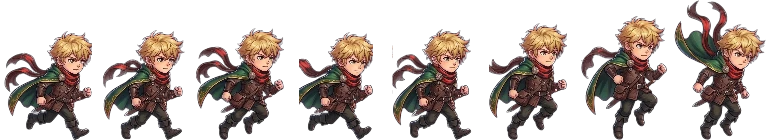
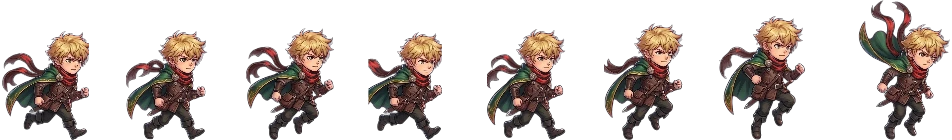
Run cycle: 12-frame sheet, frames aligned by the head, slower pacing; preview page to pick the cycle

diff --git a/tools/preview.html b/tools/preview.html
@@ -1,0 +1,100 @@
+<!doctype html>
+<!-- Run-cycle preview. With the local server running: http://127.0.0.1:8765/tools/preview.html
+     Pick a frame order and speed, watch it at game size and zoomed, then copy the settings line. -->
+<html lang="en">
+<head>
+<meta charset="utf-8">
+<title>Run Cycle Preview</title>
+<style>
+  body { margin: 0; padding: 20px; background: #1d2721; color: #dfe8e2; font: 15px/1.5 system-ui, sans-serif; display: grid; gap: 16px; }
+  .row { display: flex; flex-wrap: wrap; gap: 16px; align-items: end; }
+  label { display: grid; gap: 4px; font-size: 13px; color: #a8b8ad; }
+  input, select, button { font: inherit; padding: 6px 8px; border-radius: 6px; border: 1px solid #3b4a40; background: #26322b; color: #dfe8e2; }
+  input[type=text] { width: 260px; }
+  canvas { background: linear-gradient(#b9c9b4, #8fa596); border-radius: 6px; image-rendering: auto; }
+  #strip canvas { background: #2b3a33; }
+  #strip { display: flex; flex-wrap: wrap; gap: 6px; }
+  .frame { display: grid; justify-items: center; font-size: 12px; color: #a8b8ad; }
+  code { background: #26322b; padding: 6px 10px; border-radius: 6px; user-select: all; }
+</style>
+</head>
+<body>
+<div class="row">
+  <label>Sheet
+    <select id="sheet">
+      <option value="../assets/hero/run.webp|12">run.webp (12 frames: top row 0–5, bottom row 6–11)</option>
+      <option value="../assets/hero/sheet.webp|8">sheet.webp (8 frames: run 0–5, jump 6, fall 7)</option>
+    </select>
+  </label>
+  <label>Frame order (comma separated)
+    <input id="order" type="text" value="6,7,8,9,10,11">
+  </label>
+  <label>Pixels moved per frame (lower = faster legs)
+    <input id="step" type="range" min="6" max="30" value="14">
+  </label>
+  <label>Run speed (px/s, the game uses 220)
+    <input id="speed" type="range" min="60" max="320" value="220">
+  </label>
+  <button id="top">Top row</button>
+  <button id="bottom">Bottom row</button>
+</div>
+<div class="row">
+  <div><div>Game size</div><canvas id="small" width="480" height="90"></canvas></div>
+  <div><div>Zoomed ×3, in place</div><canvas id="big" width="300" height="400"></canvas></div>
+</div>
+<div>Settings: <code id="out"></code></div>
+<div id="strip"></div>
+<script>
+const $ = (id) => document.getElementById(id);
+const HERO_HEIGHT = 46, SRC = 112;
+let img = new Image(), n = 12, fw = 0;
+function load() {
+  const [src, count] = $('sheet').value.split('|');
+  n = Number(count);
+  img = new Image();
+  img.onload = () => { fw = img.width / n; strip(); };
+  img.src = src + '?v=' + Date.now();
+}
+function order() {
+  return $('order').value.split(',').map((x) => parseInt(x, 10)).filter((x) => x >= 0 && x < n);
+}
+function strip() {
+  $('strip').innerHTML = '';
+  for (let i = 0; i < n; i++) {
+    const c = document.createElement('canvas'), s = 90 / img.height;
+    c.width = fw * s; c.height = 90;
+    c.getContext('2d').drawImage(img, i * fw, 0, fw, img.height, 0, 0, c.width, c.height);
+    const d = document.createElement('div');
+    d.className = 'frame';
+    d.append(c, String(i));
+    $('strip').append(d);
+  }
+}
+let x = 0, walk = 0, last = performance.now();
+function frame(now) {
+  const dt = Math.min((now - last) / 1000, 0.05);
+  last = now;
+  const o = order();
+  if (fw && o.length) {
+    const speed = Number($('speed').value), step = Number($('step').value);
+    x = (x + speed * dt) % 520;
+    walk += speed * dt;
+    const f = o[Math.floor(walk / step) % o.length];
+    const s = HERO_HEIGHT / SRC, small = $('small').getContext('2d');
+    small.clearRect(0, 0, 480, 90);
+    small.drawImage(img, f * fw, 0, fw, img.height, x - 30, 80 - img.height * s, fw * s, img.height * s);
+    const big = $('big').getContext('2d'), b = 3 * s;
+    big.clearRect(0, 0, 300, 400);
+    big.drawImage(img, f * fw, 0, fw, img.height, 150 - (fw * b) / 2, 380 - img.height * b, fw * b, img.height * b);
+    $('out').textContent = `sheet=${$('sheet').value.split('|')[0].split('/').pop()} order=${o.join(',')} step=${step}`;
+  }
+  requestAnimationFrame(frame);
+}
+$('sheet').onchange = load;
+$('top').onclick = () => { $('sheet').selectedIndex = 0; $('order').value = '0,1,2,3,4,5'; load(); };
+$('bottom').onclick = () => { $('sheet').selectedIndex = 0; $('order').value = '6,7,8,9,10,11'; load(); };
+load();
+requestAnimationFrame(frame);
+</script>
+</body>
+</html>

diff --git a/game.js b/game.js
@@ -14,6 +14,9 @@ const SLIDE_SPEED = 320, SLIDE_TIME = 0.4;
 const STAND = [24, 30], FLAT = [40, 14];               // player hitbox
 const HERO_HEIGHT = 46;                                // painted hero's on-screen height (hair pokes above the hitbox)
 const HERO_SRC = 112;                                  // his typical height in the processed images (tools/sheet.mjs --height)
+// Run cycle: which frames of assets/hero/run.webp to loop, and how far he moves per frame.
+// Try orders and pacing in tools/preview.html, then copy the settings here.
+const RUN_FRAMES = [6, 7, 8, 9, 10, 11], RUN_STEP = 14;
 const BODY_STAND = [30, 32], BODY_LYING = [62, 16];    // body left behind
 
 // Enemies: walkers patrol, turn at walls/bodies/ledges, kill on touch, die when a falling body lands on them.
@@ -225,6 +228,7 @@ class Room extends Phaser.Scene {
     if (!this.textures.exists('heroSheet')) {
       this.load.image('heroSheet', 'assets/hero/sheet.webp'); // 8 frames: run 0-5, jump 6, fall 7
       this.load.image('heroIdle', 'assets/hero/idle.webp');
+      this.load.image('heroRun', 'assets/hero/run.webp'); // 12 run frames: top row 0-5, bottom row 6-11
     }
   }
 
@@ -302,8 +306,12 @@ class Room extends Phaser.Scene {
     // Painted hero, if the art is present (otherwise the code-drawn figure is used).
     this.painted = this.textures.exists('heroSheet') && this.textures.exists('heroIdle');
     if (this.painted) {
-      const tex = this.textures.get('heroSheet'), img = tex.getSourceImage(), fw = img.width / 8;
-      if (!tex.has(0)) for (let i = 0; i < 8; i++) tex.add(i, 0, i * fw, 0, fw, img.height);
+      const frames = (key, n) => {
+        const tex = this.textures.get(key), img = tex.getSourceImage(), fw = img.width / n;
+        if (!tex.has(0)) for (let i = 0; i < n; i++) tex.add(i, 0, i * fw, 0, fw, img.height);
+      };
+      frames('heroSheet', 8);
+      if (this.textures.exists('heroRun')) frames('heroRun', 12);
       this.heroScale = HERO_HEIGHT / HERO_SRC; // same pixel scale for every hero image
       this.heroSprite = this.add.image(0, 0, 'heroIdle').setOrigin(0.5, 1).setDepth(5.5);
       this.heroFrame = ['heroIdle', undefined];
@@ -453,9 +461,10 @@ class Room extends Phaser.Scene {
       return;
     }
     // Pick the frame: in the air, jump or fall; on the ground, run frames timed to distance covered
-    // (one frame per 9px, so steps match speed), or the standing painting when still.
+    // (one frame per RUN_STEP px, so steps match speed), or the standing painting when still.
     this.heroFrame = !grounded ? ['heroSheet', b.velocity.y < 0 ? 6 : 7]
-      : Math.abs(b.velocity.x) > 20 ? ['heroSheet', Math.floor(this.walk / 9) % 6]
+      : Math.abs(b.velocity.x) > 20
+        ? (this.textures.exists('heroRun') ? ['heroRun', RUN_FRAMES[Math.floor(this.walk / RUN_STEP) % RUN_FRAMES.length]] : ['heroSheet', Math.floor(this.walk / RUN_STEP) % 6])
       : ['heroIdle', undefined];
     const [key, frame] = this.heroFrame;
     this.heroSprite.setTexture(key, frame).setScale(this.heroScale).setFlipX(this.face < 0)
